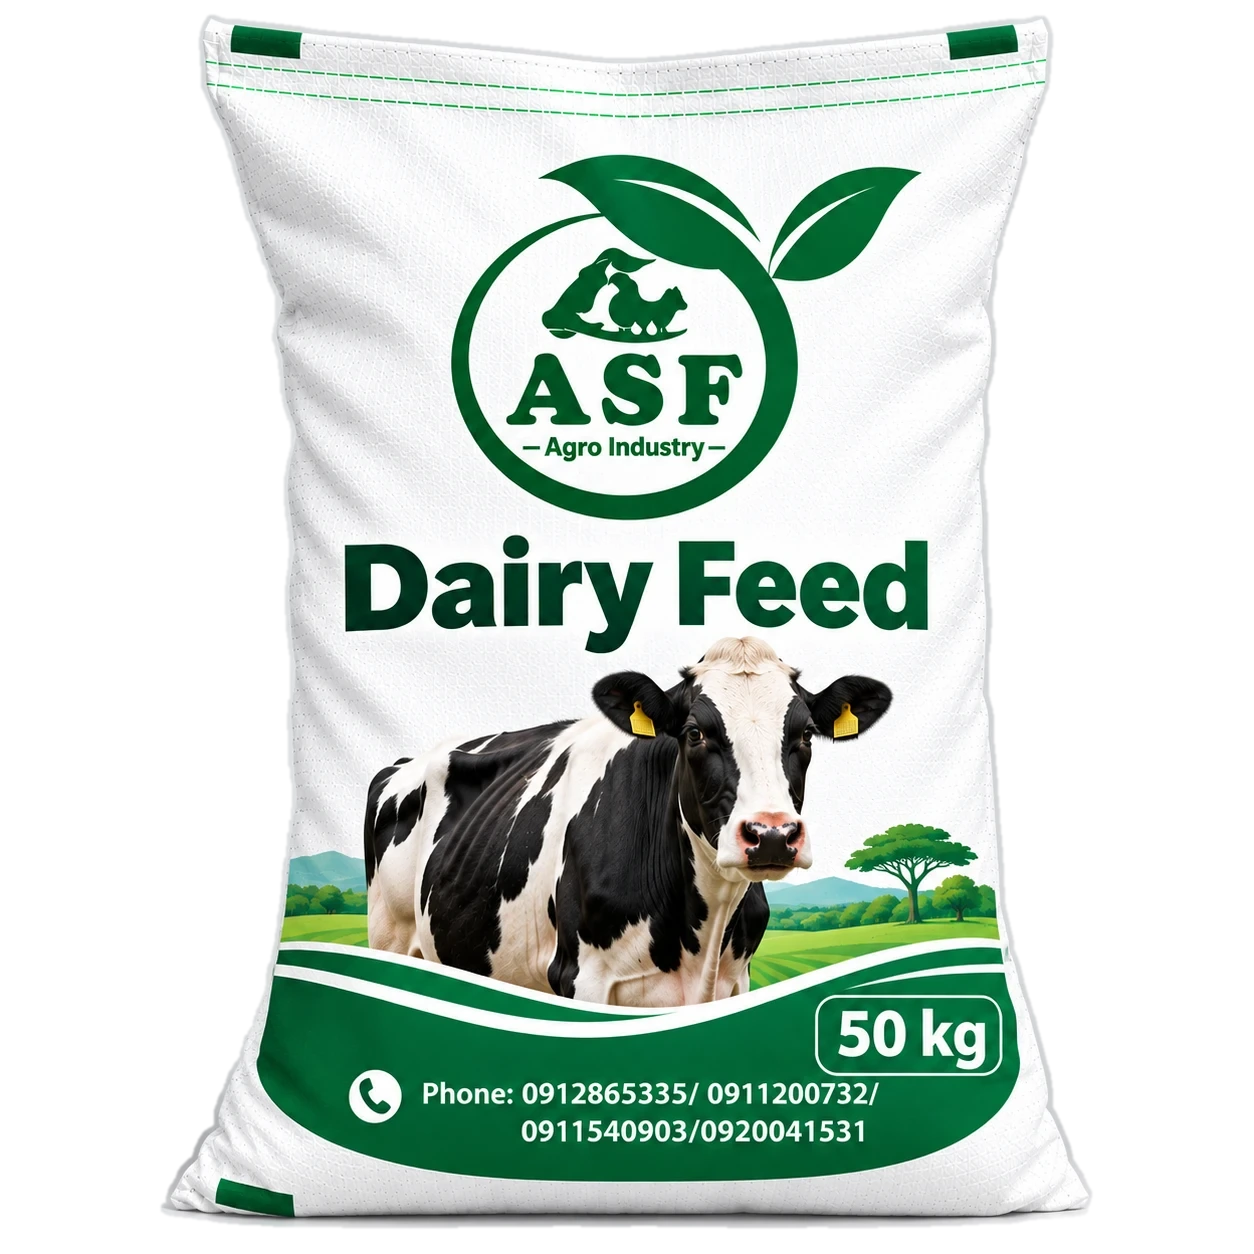
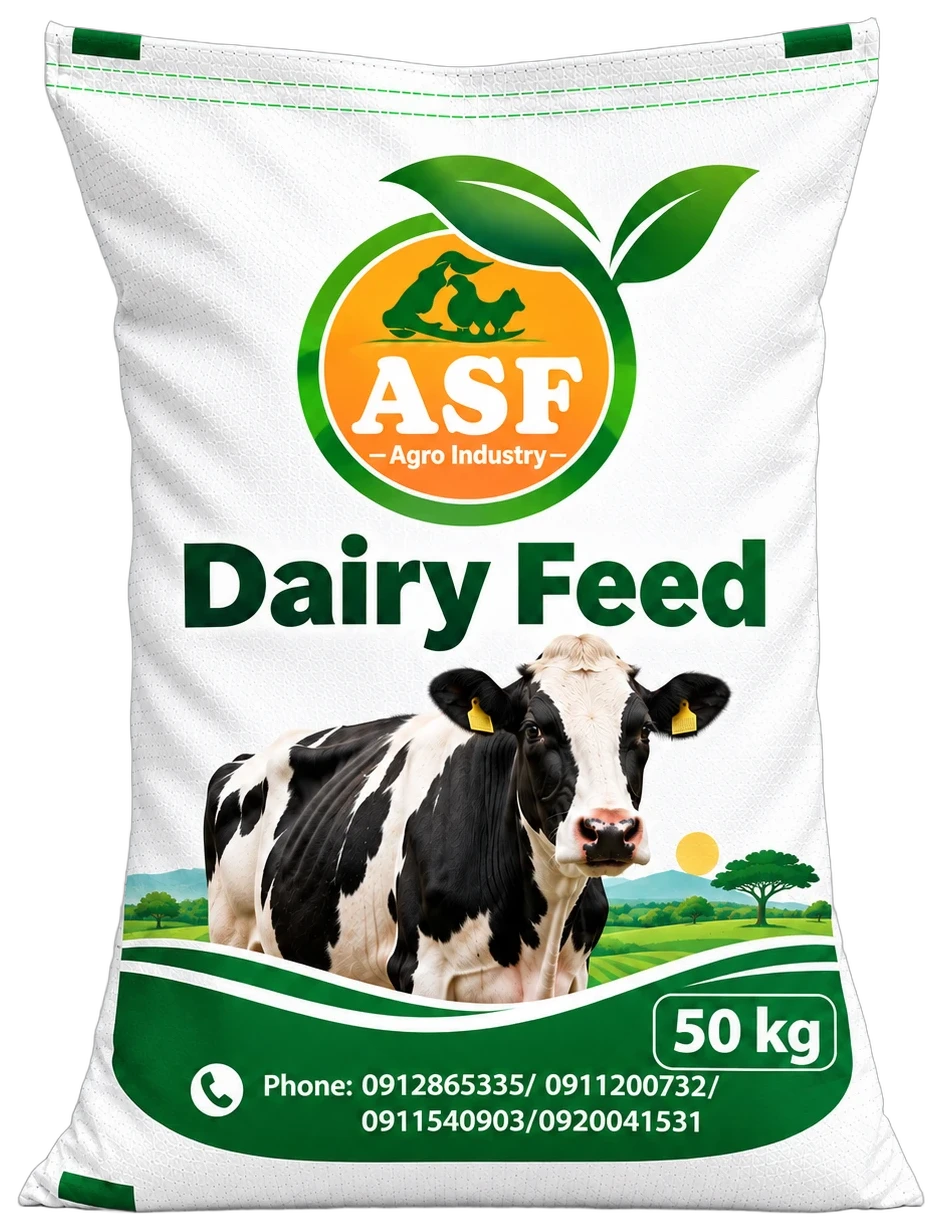
Replace 5 product photos with client-supplied packaging photography
Swaps the seed-assets/fallback images for dairy, cattle-fattening,
layer, pullet, and sheep-goat feed with new bag photography, with the
grey studio background removed (transparent). Adds a one-time,
key-guarded migration that force-replaces just the image field on the
already-seeded production products, leaving every other field (name,
description, details, etc.) untouched even if an admin has since
edited them.

Camel feed is not included yet — its replacement photo didn't come
through as an attachable file; will follow in a separate commit.

Claude-Session: https://claude.ai/code/session_01YQMuzRxRfsonaZek75CNr5

diff --git a/apps/cms/scripts/apply-content-updates.js b/apps/cms/scripts/apply-content-updates.js
@@ -482,6 +482,49 @@ async function main() {
     console.log(`Deleted product "${slug}" (en/am/om), superseded by specific products.`);
   }
 
+  // Deliberate photo replacement for specific products (client supplied new
+  // packaging photography). Unlike the migrations above, this intentionally
+  // OVERWRITES the current image — guarded by a key so it only ever runs
+  // once, and only touches the image field, leaving name/description/details
+  // and anything else an admin has since edited completely untouched.
+  const PRODUCT_PHOTO_REFRESH = [
+    { slug: "dairy-feed", key: "product-photo-refresh-dairy-feed-v2" },
+    { slug: "cattle-fattening-feed", key: "product-photo-refresh-cattle-fattening-feed-v2" },
+    { slug: "layer-feed", key: "product-photo-refresh-layer-feed-v2" },
+    { slug: "pullet-feed", key: "product-photo-refresh-pullet-feed-v2" },
+    { slug: "sheep-goat-feed", key: "product-photo-refresh-sheep-goat-feed-v2" },
+    // camel-feed: added once its replacement photo arrives.
+  ];
+  for (const { slug, key } of PRODUCT_PHOTO_REFRESH) {
+    if (await hasRun(strapi, key)) continue;
+    const seedEntry = PRODUCTS_SEED.find((p) => p.slug === slug);
+    if (!seedEntry?.imageFile) {
+      console.log(`No seed image file configured for "${slug}" — skipped photo refresh.`);
+      continue;
+    }
+    const product = await strapi.documents("api::product.product").findFirst({ filters: { slug } });
+    if (!product) {
+      console.log(`No product with slug "${slug}" found — skipped photo refresh.`);
+      continue;
+    }
+    const imageId = await uploadProductImage(strapi, seedEntry.imageFile);
+    await strapi.documents("api::product.product").update({
+      documentId: product.documentId,
+      data: { image: imageId },
+      status: "published",
+    });
+    for (const locale of LOCALES) {
+      await strapi.documents("api::product.product").update({
+        documentId: product.documentId,
+        locale: locale.code,
+        data: { image: imageId },
+        status: "published",
+      });
+    }
+    await markRun(strapi, key);
+    console.log(`Replaced product photo for "${slug}" (en/am/om).`);
+  }
+
   const adminRoleBefore = await strapi.service("admin::role").findOne({ name: "Admin" });
   if (!adminRoleBefore) {
     await seedAdminRole(strapi);
